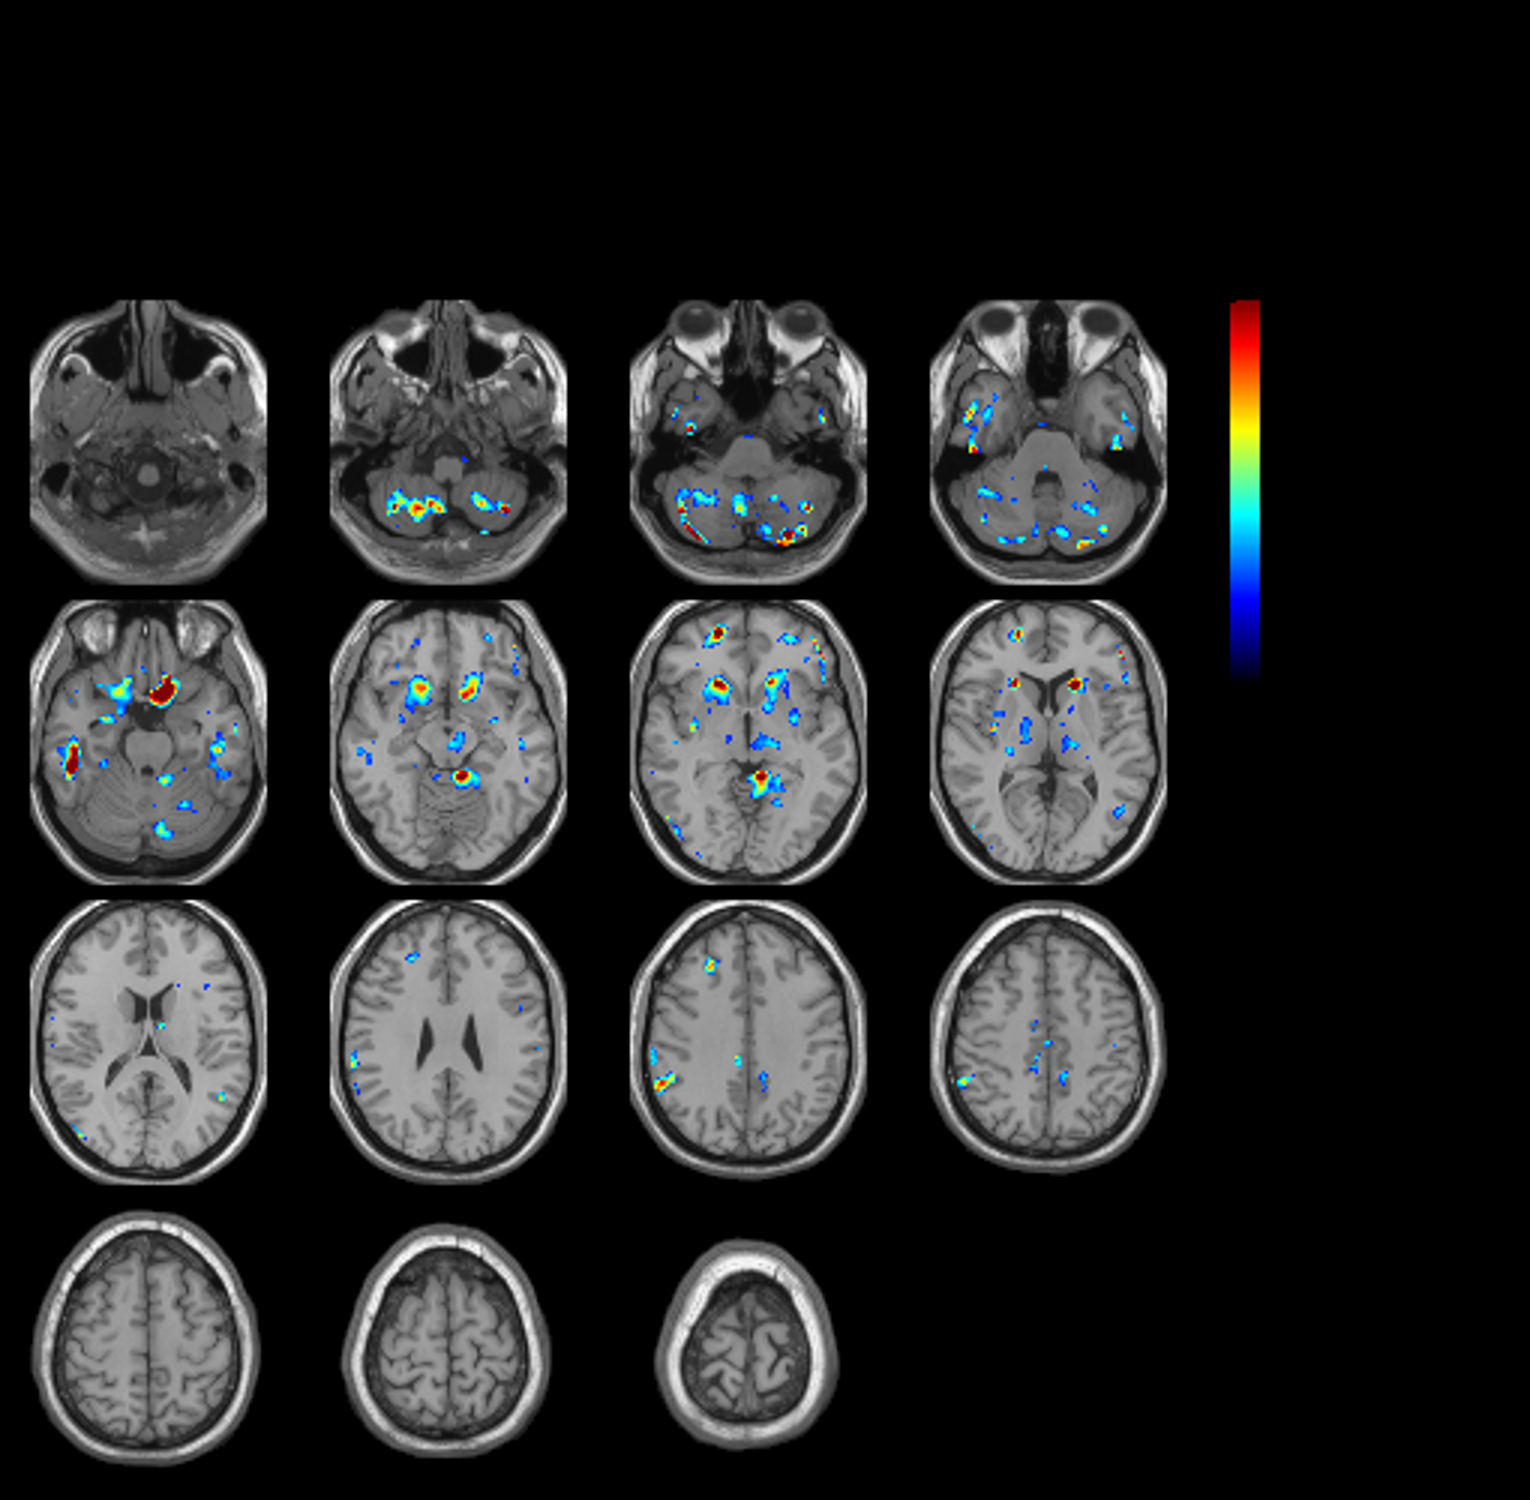
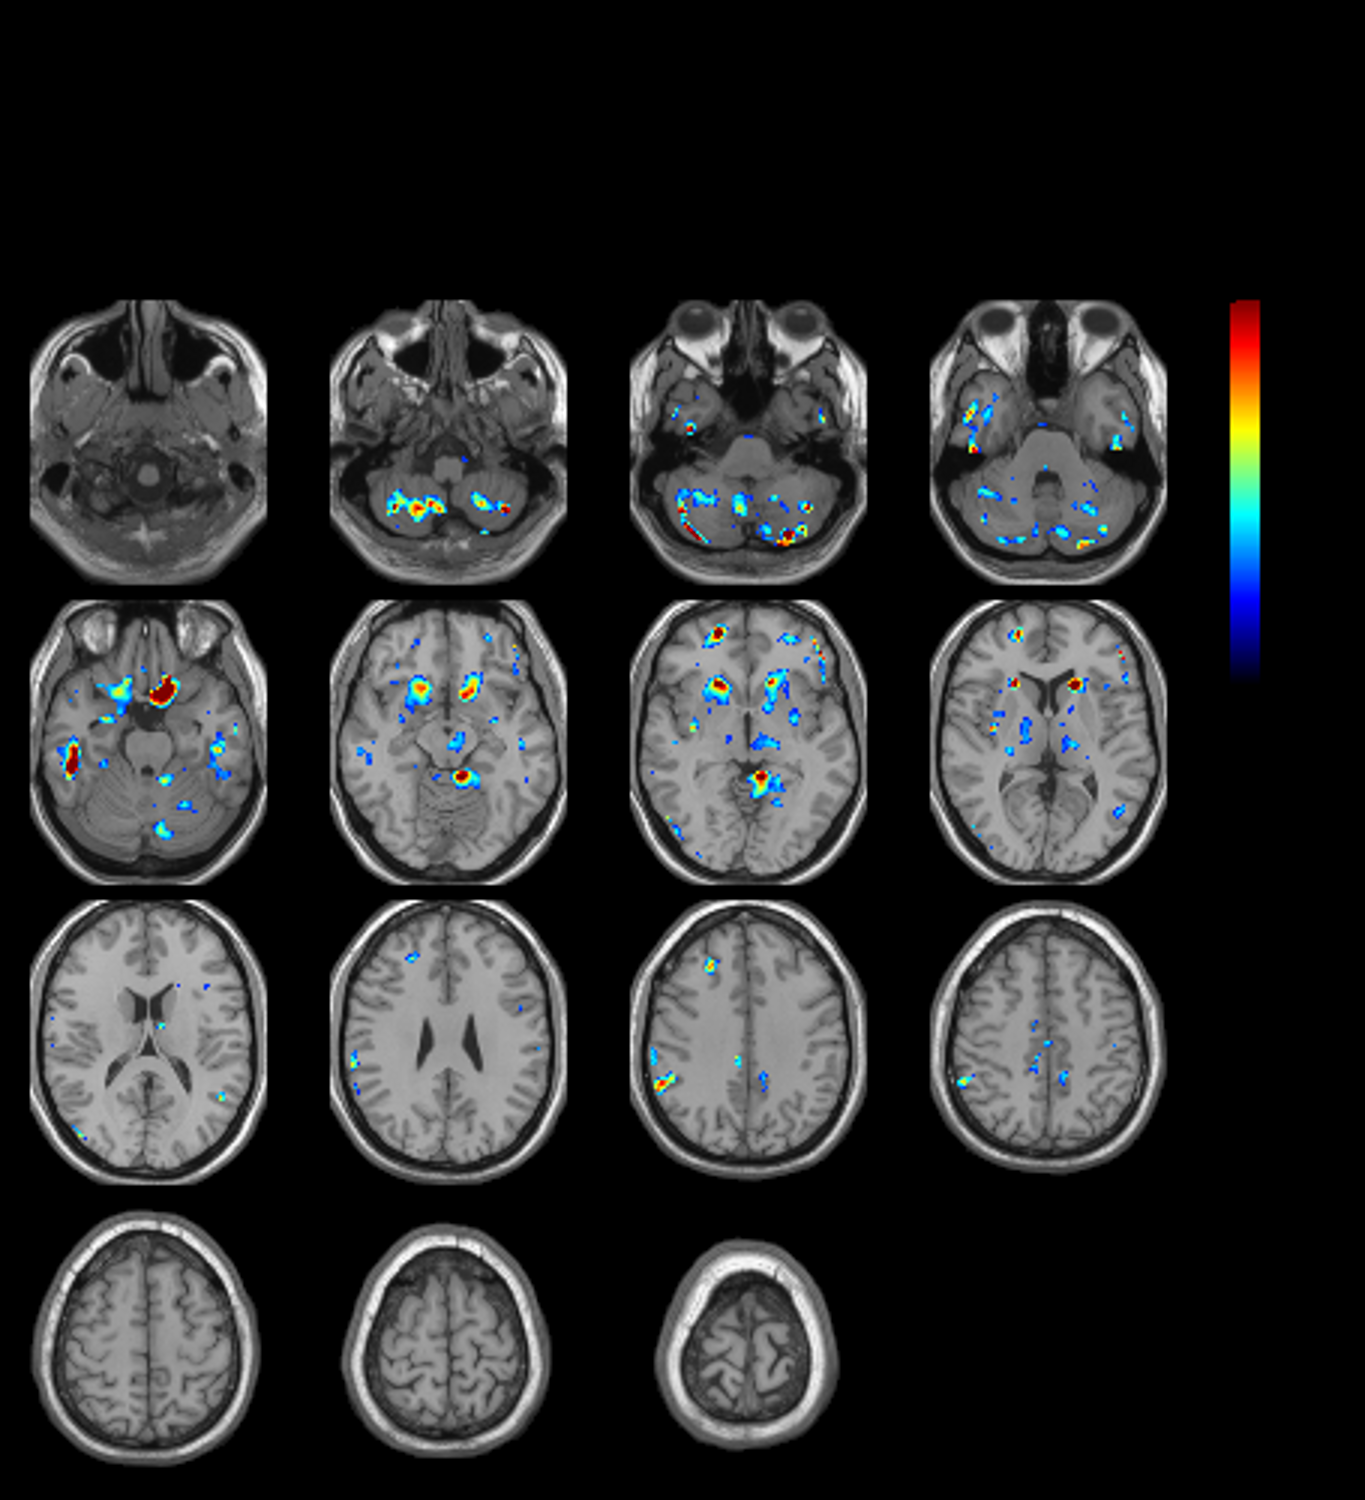
add annotations to LUT

diff --git a/overlaySlices.m b/overlaySlices.m
@@ -1,10 +1,12 @@
-function [OutputRGB] = overlaySlices(pathToInputNii, MipThickness, TitleText, pathToDicom)
+function [OutputRGB] = overlaySlices(pathToInputNii, pathToDicom)
 %% Environment
 
 %Test
 
 pathToInputNii = 'inputImages/BET_zDev_automatedCGN_SRTM2_BPnd_image.nii';
 pathMNI_T1 = 'TemplateImages/ch2_79x75x78.nii';
+pathToDicom = '/DATA/hammesj/PI2620_KinMod/Gripp/10000000/10000001/10000002/10001533';
+
 MipThickness = 5;
 
 %Load  Nii-File
@@ -18,13 +20,9 @@ lowerThreshholdSlices = maxVoxelValue/8;
 MatrixSize = size(InputNii.img);
 EvenMatrixSize = MatrixSize+mod(MatrixSize,2);
 
-DescriptionText = 'Z-transformed deviation of PI2620 BPND compared to a norm cohort';
-
-cutOffLow = 4;
-cutOffHigh = 20;
 
 ySize=500;
-xSize=510;
+xSize=455;
 
 yRow(1) = 10; % Offset of Top Part of Output RGB
 yRow(2)  = 20; % Offset of Middle Part of Output RGB
@@ -102,8 +100,6 @@ NewRGB = imresize(NewRGB,outputScalingFactor);
 imwrite(NewRGB, 'slices.png');
 
 %% Read DICOM header
-pathToDicom = '/DATA/hammesj/PI2620_KinMod/Gripp/DICOMDIR';
-pathToDicom = '/DATA/hammesj/PI2620_KinMod/Gripp/10000000/10000001/10000002/10001533';
 dicomHeader = dicominfo(pathToDicom);
 
 patientData.Name = [dicomHeader.PatientName.FamilyName ', ' dicomHeader.PatientName.GivenName];
@@ -133,6 +129,22 @@ systemCommandToDrawText = ['convert -pointsize 35 -fill white -draw "text ' ...
     num2str(xOffsetColorBar * outputScalingFactor) ...
     ',' num2str(yRow(3) * outputScalingFactor - 20) ' ' ...
     textDelim 'Z' textDelim ...
+    ' " newslices.png newslices.png'];
+system(systemCommandToDrawText)
+
+
+systemCommandToDrawText = ['convert -pointsize 35 -fill white -draw "text ' ...
+    num2str(xOffsetColorBar * outputScalingFactor + 40) ...
+    ',' num2str(yRow(3) * outputScalingFactor + 40) ' ' ...
+    textDelim num2str(upperThreshholdSlices, '%2.1f') textDelim ...
+    ' " newslices.png newslices.png'];
+system(systemCommandToDrawText)
+
+
+systemCommandToDrawText = ['convert -pointsize 35 -fill white -draw "text ' ...
+    num2str(xOffsetColorBar * outputScalingFactor + 40) ...
+    ',' num2str(yRow(3) * outputScalingFactor + 350) ' ' ...
+    textDelim num2str(lowerThreshholdSlices, '%2.1f') textDelim ...
     ' " newslices.png newslices.png'];
 system(systemCommandToDrawText)
 
